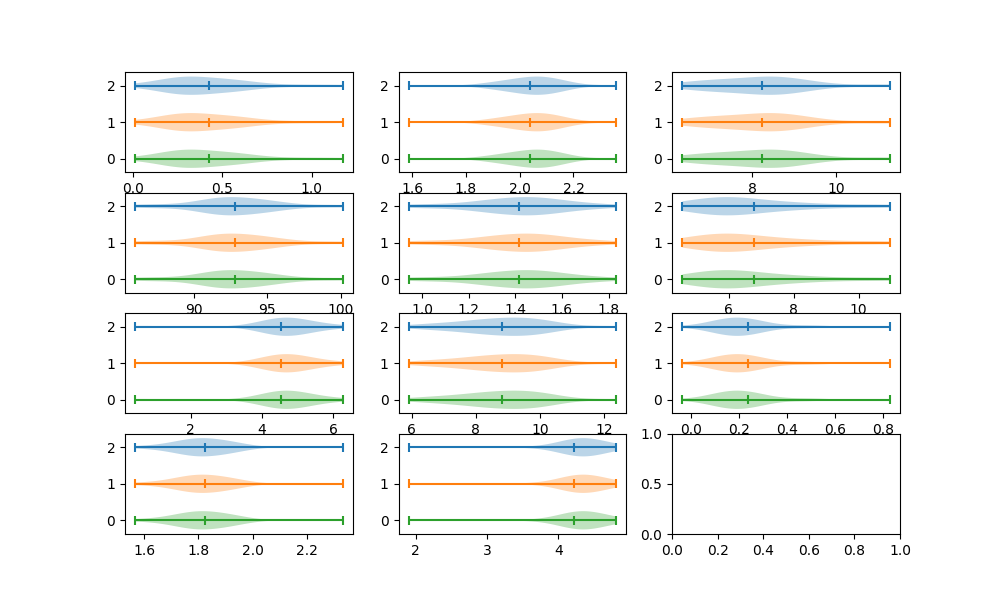
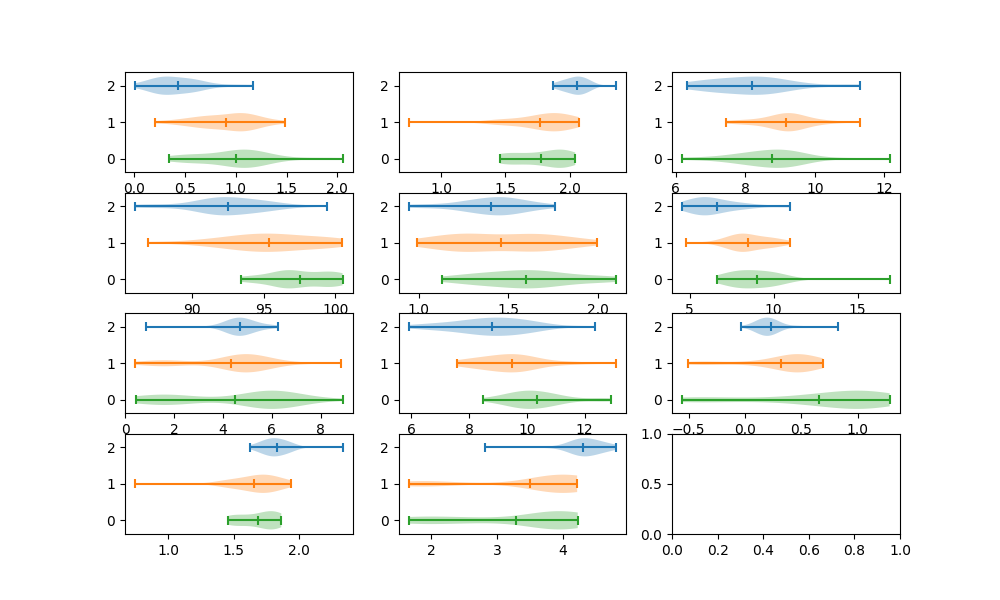
Fixed issues with recovered parameters.

diff --git a/Mechanism_Uncertainty/Glycolysis_Analysis/Extract_Fit_Params.py b/Mechanism_Uncertainty/Glycolysis_Analysis/Extract_Fit_Params.py
@@ -20,12 +20,9 @@ DATA_COLOR = "darkgrey"
 
 t0 = 0.
 
-REPLICATES = 2 # Must be less than 50, as we only ran 50 replicates
+REPLICATES = 30 # Must be less than 50, as we only ran 50 replicates
 SIZES = [5,15,25]
-# We should pull the best 30 for simplicity in plotting
 
-#model = neuralODE((2,2,[5]))
-#model.load_state_dict(torch.load("Experiments/LV_NODE_Models/LV_NODE_5_0.pt"))
 NODE_MODELS = []
 NODE_PREDS = []
 KNOWN_HYBRID_MODELS = []
@@ -34,18 +31,26 @@ UNKNOWN_HYBRID_MODELS = []
 UNKNOWN_HYBRID_PREDS = []
 
 params = []
+sizes = []
 
 for NETWORK_SIZE in SIZES:
     for i in range(REPLICATES):
         temp = torch.load(f"Experiments/Glycolysis_UnknownParamHybrid_Models/Glycolysis_UnknownParamHybrid_{NETWORK_SIZE}_{i}.pt")
-        UNKNOWN_HYBRID_MODELS.append(temp)
-        #print(replicate)
-        print(list(UNKNOWN_HYBRID_MODELS[i].parameters())[0].detach().numpy())
-        params.append(temp)
+        
+        print(list(temp.parameters())[0].detach().numpy())
+        params.append(list(temp.parameters())[0].detach().numpy())
+        sizes.append(NETWORK_SIZE)
 
 param_names = ["J0","k1","k2","k3","k4","k5","k6","k","kappa","q","K1","psi","N","A"]
+
+print(params)
+print(param_names)
 
 df = pd.DataFrame(data=np.array(params),columns=param_names)
 
 df["Size"]=sizes
+
+print(df)
 df.to_csv("Fit_Parameters.csv",index=False)
+
+

diff --git a/State_Uncertainty/3_Species_LV/Extract_Fit_Params.py b/State_Uncertainty/3_Species_LV/Extract_Fit_Params.py
@@ -39,26 +39,23 @@ KNOWN_HYBRID_PREDS = []
 UNKNOWN_HYBRID_MODELS = []
 UNKNOWN_HYBRID_PREDS = []
 
+params = []
+sizes = []
+
 for NETWORK_SIZE in SIZES:
     for i in range(REPLICATES):
-        UNKNOWN_HYBRID_MODELS.append(torch.load(f"Experiments/3Species_LV_UnknownParamHybrid/3Species_LV_UnknownParamHybrid_{NETWORK_SIZE}_{i}.pt"))
+        temp = torch.load(f"Experiments/3Species_LV_UnknownParamHybrid/3Species_LV_UnknownParamHybrid_{NETWORK_SIZE}_{i}.pt")
+        
+        print(list(temp.parameters())[0].detach().numpy())
+        params.append(list(temp.parameters())[0].detach().numpy())
+        sizes.append(NETWORK_SIZE)
 
 param_names = ["beta","gamma","delta"]
-
-params = []
-
-sizes = []
-for NETWORK_SIZE in SIZES:
-    for i in range(REPLICATES):
-        sizes.append(NETWORK_SIZE)
-        params.append(list(UNKNOWN_HYBRID_MODELS[i].parameters())[0].detach().numpy())
-
-print(np.array(params))
 
 df = pd.DataFrame(data=np.array(params),columns=param_names)
 
 df["Size"]=sizes
+
 print(df)
 df.to_csv("Fit_Parameters.csv",index=False)
-
 

diff --git a/Mechanism_Uncertainty/Glycolysis_Analysis/Glycolysis_UnknownParamHybrid_Analysis.py b/Mechanism_Uncertainty/Glycolysis_Analysis/Glycolysis_UnknownParamHybrid_Analysis.py
@@ -186,6 +186,8 @@ for size in SIZES:
         Size_Record.append(size)
         Attempts.append(attempts)
         
+        print(list(model.parameters())[0].detach().numpy())
+        
         torch.save(model,f'Experiments/Glycolysis_UnknownParamHybrid_Models/Glycolysis_UnknownParamHybrid_{size}_{replicate}.pt')
 
 df = pd.DataFrame({"Train Loss":Train, "Test Loss": Test, "Replicate": Replicates, "Size":Size_Record, "Attempts":Attempts})
